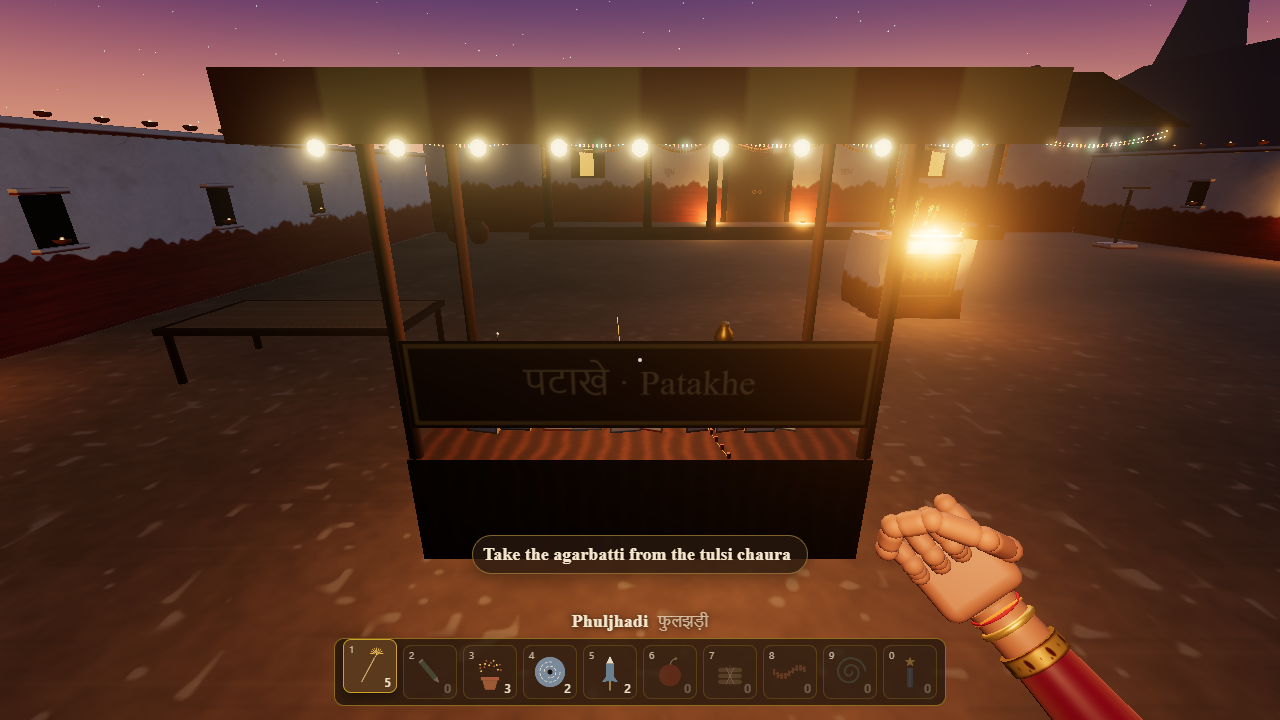
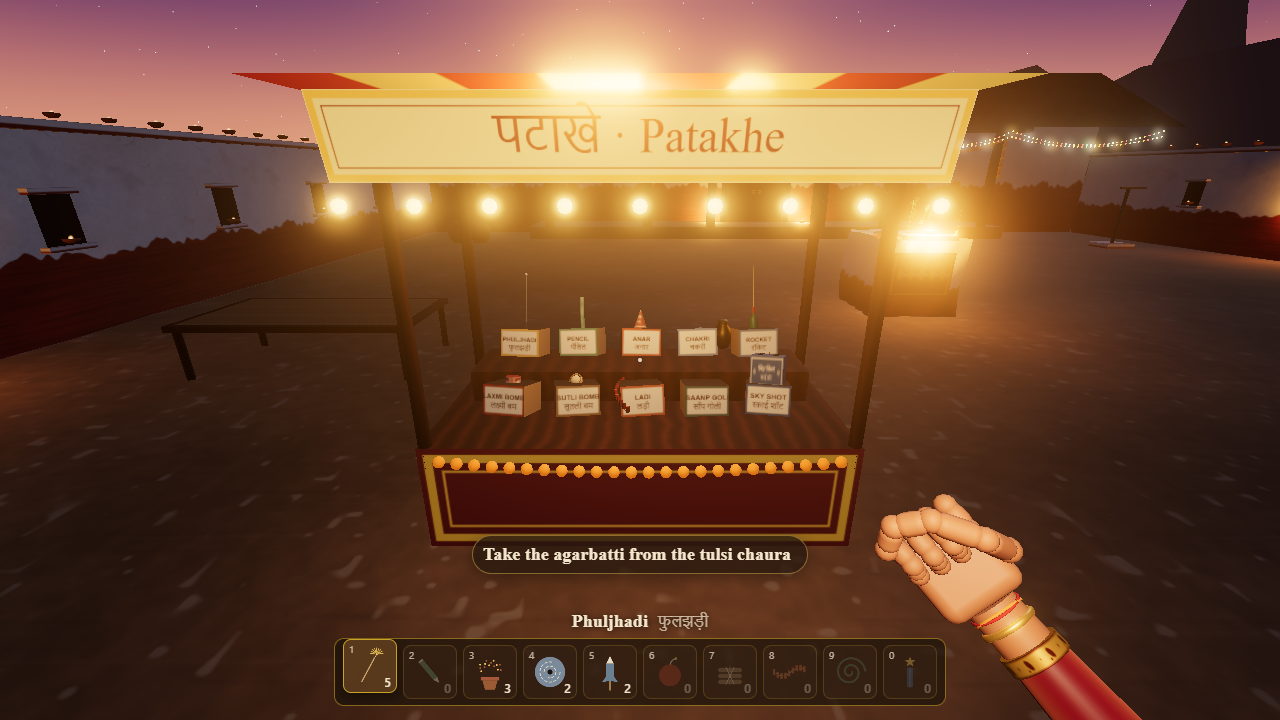
fix: open up the stall so the crackers are visible and lit

diff --git a/src/world/Stall.ts b/src/world/Stall.ts
@@ -1,7 +1,8 @@
-// The cracker stall in the open aangan: a low wooden counter with ten tilted cardboard boxes, one per cracker kind, each
-// holding a sample cracker. A striped awning on four posts shades it, a signboard reads "पटाखे · Patakhe", a row of bulbs
-// runs along the awning edge, and one warm point light makes it the brightest spot in the courtyard. The boxes are the
-// only restock: each is an interactable whose E press adds one pack of its kind.
+// The cracker stall in the open aangan: a wooden counter with a maroon cloth front and a marigold garland, a low riser at
+// the back, and ten tilted cardboard boxes in two tiered rows, one per cracker kind, each holding a sample cracker. A
+// striped awning on four posts shades it, a glowing header board reads "पटाखे · Patakhe" along the awning's front edge,
+// a row of bulbs hangs under the board, and a warm lamp plus a soft spot make it the brightest spot in the courtyard. The
+// boxes are the only restock: each is an interactable whose E press adds one pack of its kind.
 import * as THREE from 'three';
 import type { CollisionWorld } from '../core/Collision';
 import { CRACKER_ORDER, CRACKERS, type CrackerKind } from '../crackers/catalog';
@@ -15,17 +16,31 @@ const CARDBOARD = 0xb08a58;
 const CARDBOARD_INSIDE = 0x3a2a18;
 /** Height of the counter top above the courtyard floor, in metres. */
 const COUNTER_H = 0.5;
+/** Height of the step riser at the back of the counter, in metres, on which the back row of boxes stands. */
+const RISER_H = 0.16;
 /** Height of the awning posts, in metres. */
 const POST_H = 1.85;
-/** Size of one cracker box in metres: width along x, height, and depth along z (the label end faces the player). */
-const BOX_W = 0.14;
-const BOX_H = 0.11;
-const BOX_D = 0.46;
-/** Spacing between neighbouring boxes along x, in metres. */
-const BOX_PITCH = 0.15;
-/** Bulbs strung along the front of the awning, and the radius of each. */
+/** Size of one cracker box in metres: width along x, height, and depth along z (the label face looks at the player). */
+const BOX_W = 0.2;
+const BOX_H = 0.14;
+const BOX_D = 0.2;
+/** Spacing between neighbouring boxes along x in a row, in metres; five boxes make one row. */
+const BOX_PITCH = 0.3;
+/** Forward tilt of each box, in radians: the label leans up toward the player. */
+const BOX_TILT = 0.25;
+/** Height the box centre sits above its base so that a tilted corner never sinks into it, in metres. */
+const BOX_LIFT = (BOX_H / 2) * Math.cos(BOX_TILT) + (BOX_D / 2) * Math.sin(BOX_TILT) + 0.01;
+/** Size of the header signboard along the awning's front edge, in metres. */
+const SIGN_W = STALL_W - 0.1;
+const SIGN_H = 0.24;
+/** Bulbs strung under the signboard, and the radius of each. */
 const BULB_COUNT = 9;
 const BULB_R = 0.022;
+/** Marigold garland swagged along the counter front: bead count and bead radius. */
+const GARLAND_N = 24;
+const GARLAND_R = 0.026;
+/** Half-width of the garland along x, in metres, so it runs just inside the counter's ends. */
+const GARLAND_HW = STALL_W / 2 - 0.1;
 
 /** One cracker box on the stall: its kind, where it stands in the world, and the mesh the crosshair aims at. */
 export interface StallBox {
@@ -38,8 +53,8 @@ export interface StallBox {
 }
 
 /**
- * Builds the counter, boxes, awning, signboard and lamp of the stall into the scene, registers the counter as a floor
- * collider and returns the ten boxes in CRACKER_ORDER.
+ * Builds the counter, riser, boxes, awning, signboard, garland and lights of the stall into the scene, registers the
+ * counter as a floor collider and returns the ten boxes in CRACKER_ORDER.
  */
 export function buildStall(scene: THREE.Scene, world: CollisionWorld, tex: Textures): StallBox[] {
   const stall = new THREE.Group();
@@ -47,13 +62,51 @@ export function buildStall(scene: THREE.Scene, world: CollisionWorld, tex: Textu
   scene.add(stall);
   world.addBox(stallFootprint());
 
-  // Counter: a wooden plinth the boxes stand on.
-  const counter = new THREE.Mesh(
-    new THREE.BoxGeometry(STALL_W, COUNTER_H, STALL_D),
-    woodMaterial(tex, 1.5, 1, 0xe2b77c),
-  );
+  // Counter: a wooden plinth the boxes stand on. Its front face (index 4 in BoxGeometry order, +z) is maroon cloth with
+  // a gold border; the other faces stay wood.
+  const wood = woodMaterial(tex, 1.5, 1, 0xe2b77c);
+  const clothMap = clothTexture();
+  const cloth = new THREE.MeshStandardMaterial({
+    map: clothMap,
+    // A little emission keeps the cloth from reading as near-black under the courtyard's dim light.
+    emissive: 0xffffff,
+    emissiveMap: clothMap,
+    emissiveIntensity: 0.15,
+    roughness: 0.85,
+    metalness: 0,
+  });
+  const counter = new THREE.Mesh(new THREE.BoxGeometry(STALL_W, COUNTER_H, STALL_D), [
+    wood,
+    wood,
+    wood,
+    wood,
+    cloth,
+    wood,
+  ]);
   counter.position.y = COUNTER_H / 2;
   stall.add(counter);
+
+  // Marigold garland: a row of small orange beads that swags along the counter front, sagging between its two ends.
+  const beadGeo = new THREE.SphereGeometry(GARLAND_R, 8, 6);
+  const beadMat = new THREE.MeshStandardMaterial({
+    color: 0xff9a1f,
+    emissive: 0xff7a00,
+    emissiveIntensity: 0.35,
+    roughness: 0.6,
+    metalness: 0,
+  });
+  for (let k = 0; k < GARLAND_N; k++) {
+    // t runs from -1 at the left end to +1 at the right; the bead dips lowest in the middle of the swag.
+    const t = (k / (GARLAND_N - 1)) * 2 - 1;
+    const bead = new THREE.Mesh(beadGeo, beadMat);
+    bead.position.set(t * GARLAND_HW, COUNTER_H - 0.05 - 0.05 * (1 - t * t), STALL_D / 2 + 0.02);
+    stall.add(bead);
+  }
+
+  // Step riser at the back of the counter: the back row of boxes stands on it, so both rows show their labels.
+  const riser = new THREE.Mesh(new THREE.BoxGeometry(SIGN_W - 0.1, RISER_H, 0.36), woodMaterial(tex, 1.2, 0.5, 0xe2b77c));
+  riser.position.set(0, COUNTER_H + RISER_H / 2, -0.22);
+  stall.add(riser);
 
   // Four posts at the corners carry the awning.
   const postMat = woodMaterial(tex, 0.3, 1.5, 0x9c7048);
@@ -67,54 +120,92 @@ export function buildStall(scene: THREE.Scene, world: CollisionWorld, tex: Textu
     }
   }
 
-  // Striped cloth canopy, pitched over the counter and overhanging the front, with a valance along its front edge.
-  const cloth = new THREE.MeshStandardMaterial({
-    map: stripeTexture(),
+  // Striped cloth canopy, pitched over the counter and overhanging the front. The stripes are emissive so the underside
+  // reads as lit by the lamps rather than a dark cut-out.
+  const stripes = stripeTexture();
+  const clothCanopy = new THREE.MeshStandardMaterial({
+    map: stripes,
+    emissive: 0xffffff,
+    emissiveMap: stripes,
+    emissiveIntensity: 0.25,
     roughness: 0.9,
     metalness: 0,
     side: THREE.DoubleSide,
   });
-  const canopy = new THREE.Mesh(new THREE.PlaneGeometry(STALL_W + 0.3, STALL_D + 0.5), cloth);
+  const canopy = new THREE.Mesh(new THREE.PlaneGeometry(STALL_W + 0.3, STALL_D + 0.5), clothCanopy);
   canopy.rotation.x = -Math.PI / 2;
   canopy.position.set(0, POST_H, 0.1);
   stall.add(canopy);
-  const valance = new THREE.Mesh(new THREE.PlaneGeometry(STALL_W + 0.3, 0.18), cloth);
-  valance.position.set(0, POST_H - 0.09, STALL_D / 2 + 0.35);
-  stall.add(valance);
 
-  // Bulbs hung just under the valance, all one shared geometry and material.
+  // Header signboard along the top front edge of the awning, tilted slightly down toward the player. It is a cream and
+  // saffron board with maroon lettering, and its emissive map makes it glow softly.
+  const signTex = signTexture();
+  const signMat = new THREE.MeshStandardMaterial({
+    map: signTex,
+    emissive: 0xffffff,
+    emissiveMap: signTex,
+    emissiveIntensity: 0.6,
+    roughness: 0.8,
+    metalness: 0,
+  });
+  const sign = new THREE.Mesh(new THREE.PlaneGeometry(SIGN_W, SIGN_H), signMat);
+  sign.position.set(0, POST_H - 0.16, STALL_D / 2 + 0.36);
+  // A positive x turn tips the face's normal downward, so the board faces the player on the approach.
+  sign.rotation.x = 0.2;
+  stall.add(sign);
+
+  // Bulbs hung just under the signboard, all one shared geometry and an emissive material so each reads as a lit bulb.
   const bulbGeo = new THREE.SphereGeometry(BULB_R, 8, 6);
-  const bulbMat = new THREE.MeshBasicMaterial({ color: 0xffd98a });
+  const bulbMat = new THREE.MeshStandardMaterial({
+    color: 0xffd98a,
+    emissive: 0xffb84d,
+    emissiveIntensity: 1.6,
+    roughness: 0.4,
+    metalness: 0,
+  });
   for (let i = 0; i < BULB_COUNT; i++) {
     const bulb = new THREE.Mesh(bulbGeo, bulbMat);
-    bulb.position.set(-0.85 + (i * 1.7) / (BULB_COUNT - 1), POST_H - 0.19, STALL_D / 2 + 0.37);
+    bulb.position.set(-0.85 + (i * 1.7) / (BULB_COUNT - 1), POST_H - 0.34, STALL_D / 2 + 0.4);
     stall.add(bulb);
   }
 
-  // Signboard on the front of the counter, between the posts.
-  const signMat = new THREE.MeshStandardMaterial({ map: signTexture(), roughness: 0.8, metalness: 0 });
-  const sign = new THREE.Mesh(new THREE.PlaneGeometry(STALL_W - 0.12, 0.36), signMat);
-  sign.position.set(0, 0.84, STALL_D / 2 + 0.03);
-  stall.add(sign);
-
-  // One warm lamp under the canopy: the stall's share of the point-light budget.
-  const lamp = new THREE.PointLight(0xffc27a, 7, 10, 2);
-  lamp.position.set(0, POST_H - 0.2, 0.3);
+  // One warm point lamp under the canopy, just behind the bulbs, lighting the boxes and the board: the stall's share of
+  // the point-light budget.
+  const lamp = new THREE.PointLight(0xffc27a, 2, 10, 2);
+  lamp.position.set(0, POST_H - 0.3, 0.5);
   stall.add(lamp);
 
-  // Ten boxes, one per kind, tilted by hand so the row looks loose.
+  // A soft spot from in front and above the counter, so the top of the table and the boxes are well lit from the
+  // approach. It is a spot rather than a point light, so the point-light budget is unchanged.
+  const spotTarget = new THREE.Object3D();
+  spotTarget.position.set(0, COUNTER_H, 0);
+  stall.add(spotTarget);
+  const spot = new THREE.SpotLight(0xfff0d8, 3, 9, 0.7, 0.9, 2);
+  spot.position.set(0, 2.2, 2.8);
+  spot.target = spotTarget;
+  stall.add(spot);
+
+  // Ten boxes, one per kind: the first five form the back row on the riser, the rest the front row on the counter. Each
+  // is tipped forward by a hand-chosen amount so the row looks loose.
   const r = rng(616);
   const boxes: StallBox[] = [];
   CRACKER_ORDER.forEach((kind, i) => {
     const cardboard = new THREE.MeshStandardMaterial({ color: CARDBOARD, roughness: 0.95, metalness: 0 });
     const inside = new THREE.MeshStandardMaterial({ color: CARDBOARD_INSIDE, roughness: 1, metalness: 0 });
     const label = new THREE.MeshStandardMaterial({ map: boxLabelTexture(kind), roughness: 0.9, metalness: 0 });
-    // Box faces in BoxGeometry order: +x, -x, +y (open top), -y, +z (label end), -z.
+    // Box faces in BoxGeometry order: +x, -x, +y (open top), -y, +z (label face), -z.
     const mats = [cardboard, cardboard, inside, cardboard, label, cardboard];
     const box = new THREE.Mesh(new THREE.BoxGeometry(BOX_W, BOX_H, BOX_D), mats);
-    // A small turn, lean and tip, lifted so no corner sinks into the counter.
-    box.rotation.set((r() - 0.5) * 0.08, (r() - 0.5) * 0.5, (r() - 0.5) * 0.16);
-    box.position.set((i - (CRACKER_ORDER.length - 1) / 2) * BOX_PITCH, COUNTER_H + BOX_H / 2 + 0.012, 0);
+
+    const back = i < CRACKER_ORDER.length / 2;
+    const col = back ? i : i - CRACKER_ORDER.length / 2;
+    const x = (col - (CRACKER_ORDER.length / 2 - 1) / 2) * BOX_PITCH;
+    // The back row stands on the riser, the front row on the counter top, and each sits clear of the other row.
+    const baseY = back ? COUNTER_H + RISER_H : COUNTER_H;
+    const z = back ? -0.22 : 0.14;
+    box.rotation.set(-BOX_TILT + (r() - 0.5) * 0.06, (r() - 0.5) * 0.5, (r() - 0.5) * 0.08);
+    box.position.set(x, baseY + BOX_LIFT, z);
+
     // A sample cracker rests in each open box, so the box reads as the one that sells it.
     const sample = makeCrackerModel(kind);
     sample.position.y = BOX_H / 2 - 0.02;
@@ -148,34 +239,61 @@ function stripeTexture(): THREE.CanvasTexture {
   return map;
 }
 
-/** Draws the signboard: "पटाखे · Patakhe" in gold on maroon, inside a gold border. */
+/** Maroon cloth with a gold border for the counter front, drawn as one texture over the whole face. */
+function clothTexture(): THREE.CanvasTexture {
+  const canvas = document.createElement('canvas');
+  canvas.width = 512;
+  canvas.height = 128;
+  const ctx = canvas.getContext('2d');
+  if (ctx) {
+    ctx.fillStyle = '#6e1a24';
+    ctx.fillRect(0, 0, canvas.width, canvas.height);
+    // Gold border, inset from the edge, and a thin inner line so the band reads as embroidered trim.
+    ctx.strokeStyle = '#e0a93a';
+    ctx.lineWidth = 10;
+    ctx.strokeRect(12, 12, canvas.width - 24, canvas.height - 24);
+    ctx.lineWidth = 3;
+    ctx.strokeRect(28, 28, canvas.width - 56, canvas.height - 56);
+  }
+  const map = new THREE.CanvasTexture(canvas);
+  map.colorSpace = THREE.SRGBColorSpace;
+  return map;
+}
+
+/** Draws the signboard: "पटाखे · Patakhe" in deep maroon on cream, inside a saffron border. */
 function drawSign(canvas: HTMLCanvasElement): void {
   const ctx = canvas.getContext('2d');
   if (!ctx) return;
   const w = canvas.width;
   const h = canvas.height;
-  ctx.fillStyle = '#5a1a14';
+  // A deeper saffron-cream ground: the emissive map adds light on top of it, and a near-white ground would clip to glare.
+  ctx.fillStyle = '#eeb963';
   ctx.fillRect(0, 0, w, h);
-  ctx.strokeStyle = '#e8b84a';
-  ctx.lineWidth = 6;
-  ctx.strokeRect(8, 8, w - 16, h - 16);
-  ctx.fillStyle = '#f6d77a';
+  // Saffron outer border and a thin maroon rule inside it.
+  ctx.strokeStyle = '#e89a2a';
+  ctx.lineWidth = 10;
+  ctx.strokeRect(6, 6, w - 12, h - 12);
+  ctx.strokeStyle = '#7a1c22';
+  ctx.lineWidth = 2;
+  ctx.strokeRect(20, 20, w - 40, h - 40);
+  ctx.fillStyle = '#6b1020';
   ctx.textAlign = 'center';
   ctx.textBaseline = 'middle';
-  ctx.font = '50px "Tiro Devanagari Hindi", Inter, serif';
-  ctx.fillText('पटाखे · Patakhe', w / 2, h / 2);
+  ctx.font = '64px "Tiro Devanagari Hindi", Inter, serif';
+  ctx.fillText('पटाखे · Patakhe', w / 2, h / 2 + 2);
 }
 
 /** Signboard canvas texture, redrawn once the Devanagari font is ready so the first paint is not a fallback. */
 function signTexture(): THREE.CanvasTexture {
   const canvas = document.createElement('canvas');
-  canvas.width = 640;
-  canvas.height = 128;
+  // Same proportions as the board (SIGN_W by SIGN_H), so the lettering is not stretched.
+  canvas.width = 900;
+  canvas.height = Math.round(900 * (SIGN_H / SIGN_W));
   drawSign(canvas);
   const map = new THREE.CanvasTexture(canvas);
   map.colorSpace = THREE.SRGBColorSpace;
   document.fonts
-    ?.load('50px "Tiro Devanagari Hindi"')
+    ?.load('64px "Tiro Devanagari Hindi"')
     .then(() => {
       drawSign(canvas);
       map.needsUpdate = true;
@@ -199,7 +317,7 @@ function drawBoxLabel(canvas: HTMLCanvasElement, kind: CrackerKind): void {
   ctx.fillStyle = css(info.tint);
   ctx.fillRect(0, 0, w, h);
   ctx.fillStyle = '#efe3c6';
-  ctx.fillRect(12, 16, w - 24, h - 32);
+  ctx.fillRect(12, 14, w - 24, h - 28);
   ctx.fillStyle = '#3a1a10';
   ctx.textAlign = 'center';
   ctx.textBaseline = 'middle';
@@ -212,8 +330,9 @@ function drawBoxLabel(canvas: HTMLCanvasElement, kind: CrackerKind): void {
 /** Label canvas texture for one cracker kind, redrawn once the web fonts are ready. */
 function boxLabelTexture(kind: CrackerKind): THREE.CanvasTexture {
   const canvas = document.createElement('canvas');
+  // Same proportions as the box's label face (BOX_W by BOX_H), so the label is not stretched.
   canvas.width = 256;
-  canvas.height = 200;
+  canvas.height = Math.round(256 * (BOX_H / BOX_W));
   drawBoxLabel(canvas, kind);
   const map = new THREE.CanvasTexture(canvas);
   map.colorSpace = THREE.SRGBColorSpace;
